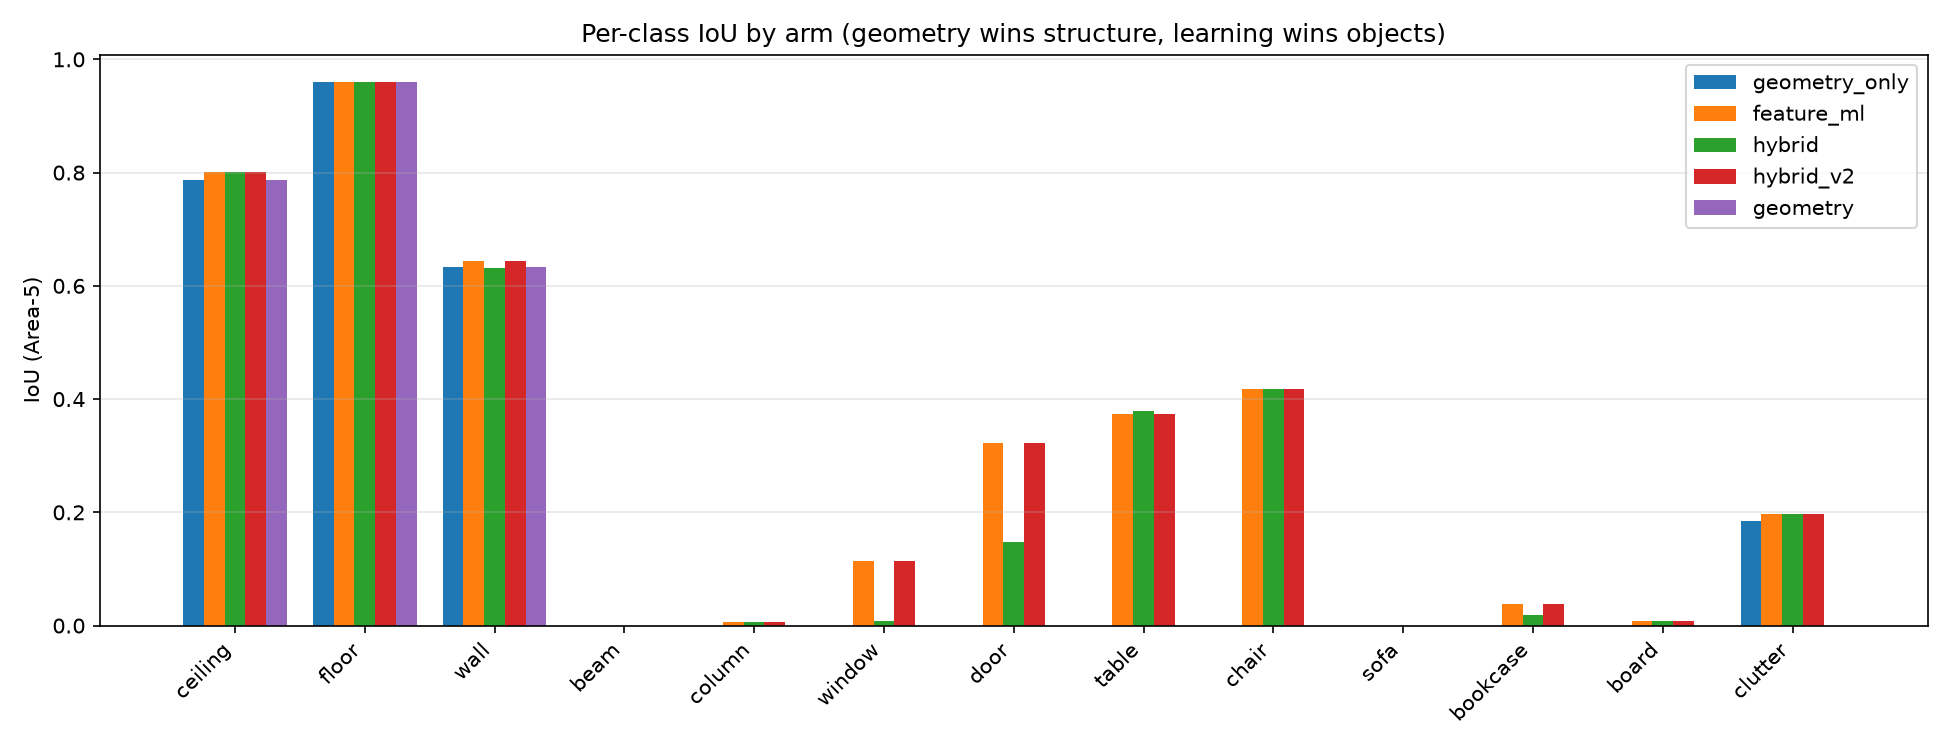
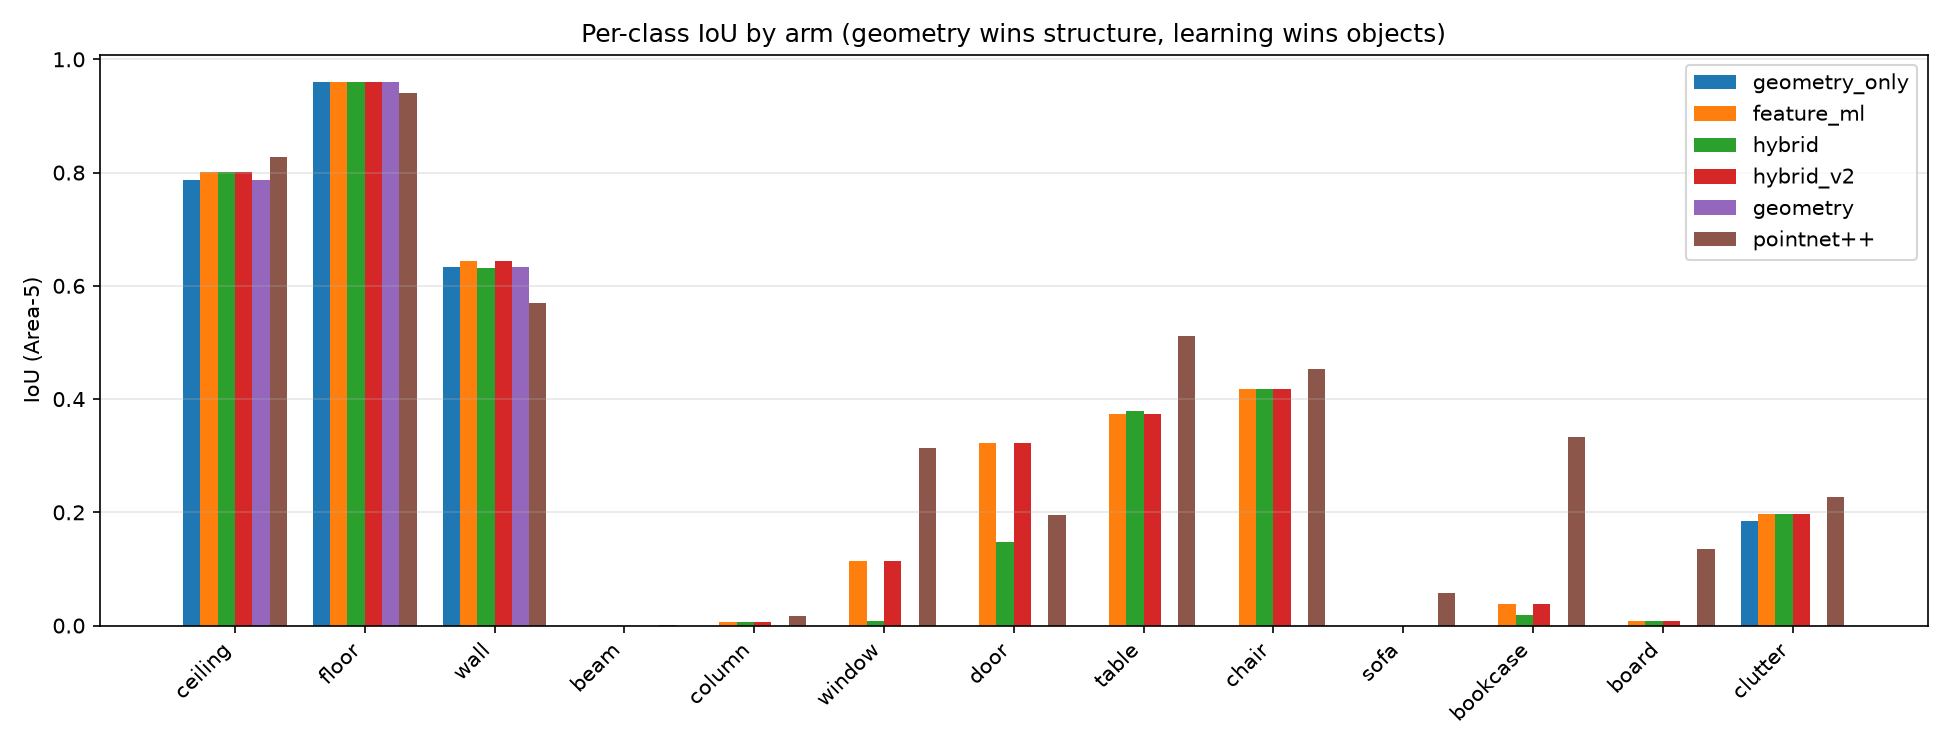
docs(P3): add PointNet++ Phase 3 evaluation results and update per-class IoU chart

diff --git a/docs/EXPERIMENTS.md b/docs/EXPERIMENTS.md
@@ -34,6 +34,43 @@ All four arms scored on the same 68 Area-5 rooms.
 | board | 0.0000 | 0.0080 | 0.0080 | 0.0080 |
 | clutter | 0.1850 | 0.1979 | 0.1976 | 0.1975 |
 
+## PointNet++ (Phase 3 — learned baseline, FULL13, Area-5; global mIoU)
+
+Pure-PyTorch PointNet++ SSG (9-dim input, 1 m / 4096-pt blocks), trained on Areas 1-4,6
+for 32 epochs on a Colab T4, predicted at full resolution on Area-5, and scored by the
+same shared `src/s3dis_evaluator.py` as the other arms. Source: `outputs/pointnet2_eval.json`.
+
+| Arm | mIoU | OA |
+|---|---|---|
+| pointnet++ | 0.3523 | 0.7008 |
+
+PointNet++ is the strongest arm overall (+0.05 mIoU over feature_ml 0.2987). It matches the
+other arms on structure (which geometry already gets for free) and wins by learning the
+object classes the geometry-scaffolded RandomForest misses.
+
+| class | feature_ml | pointnet++ |
+|---|---|---|
+| ceiling | 0.8013 | 0.8283 |
+| floor | 0.9605 | 0.9409 |
+| wall | 0.6441 | 0.5702 |
+| beam | 0.0000 | 0.0007 |
+| column | 0.0059 | 0.0164 |
+| window | 0.1138 | 0.3128 |
+| door | 0.3224 | 0.1959 |
+| table | 0.3735 | 0.5119 |
+| chair | 0.4172 | 0.4523 |
+| sofa | 0.0000 | 0.0569 |
+| bookcase | 0.0379 | 0.3326 |
+| board | 0.0080 | 0.1344 |
+| clutter | 0.1979 | 0.2267 |
+
+Takeaway: PN++ is the only arm to reach non-trivial IoU on bookcase (0.33), window (0.31),
+board (0.13) and sofa (0.06) — the objects geometry can't name and the RandomForest can't
+learn from segment features. It does NOT beat geometry on structure (wall 0.57 < 0.64;
+geometry's exact planes still win there), and beam stays ~0 for every arm. This is the
+thesis quantified: geometry scaffolds structure for free; deep learning earns its keep on
+objects, at real GPU cost.
+
 ## RGB ablation (feature-ML arm, FULL13, Area-5; global mIoU)
 
 | variant | mIoU | OA |
